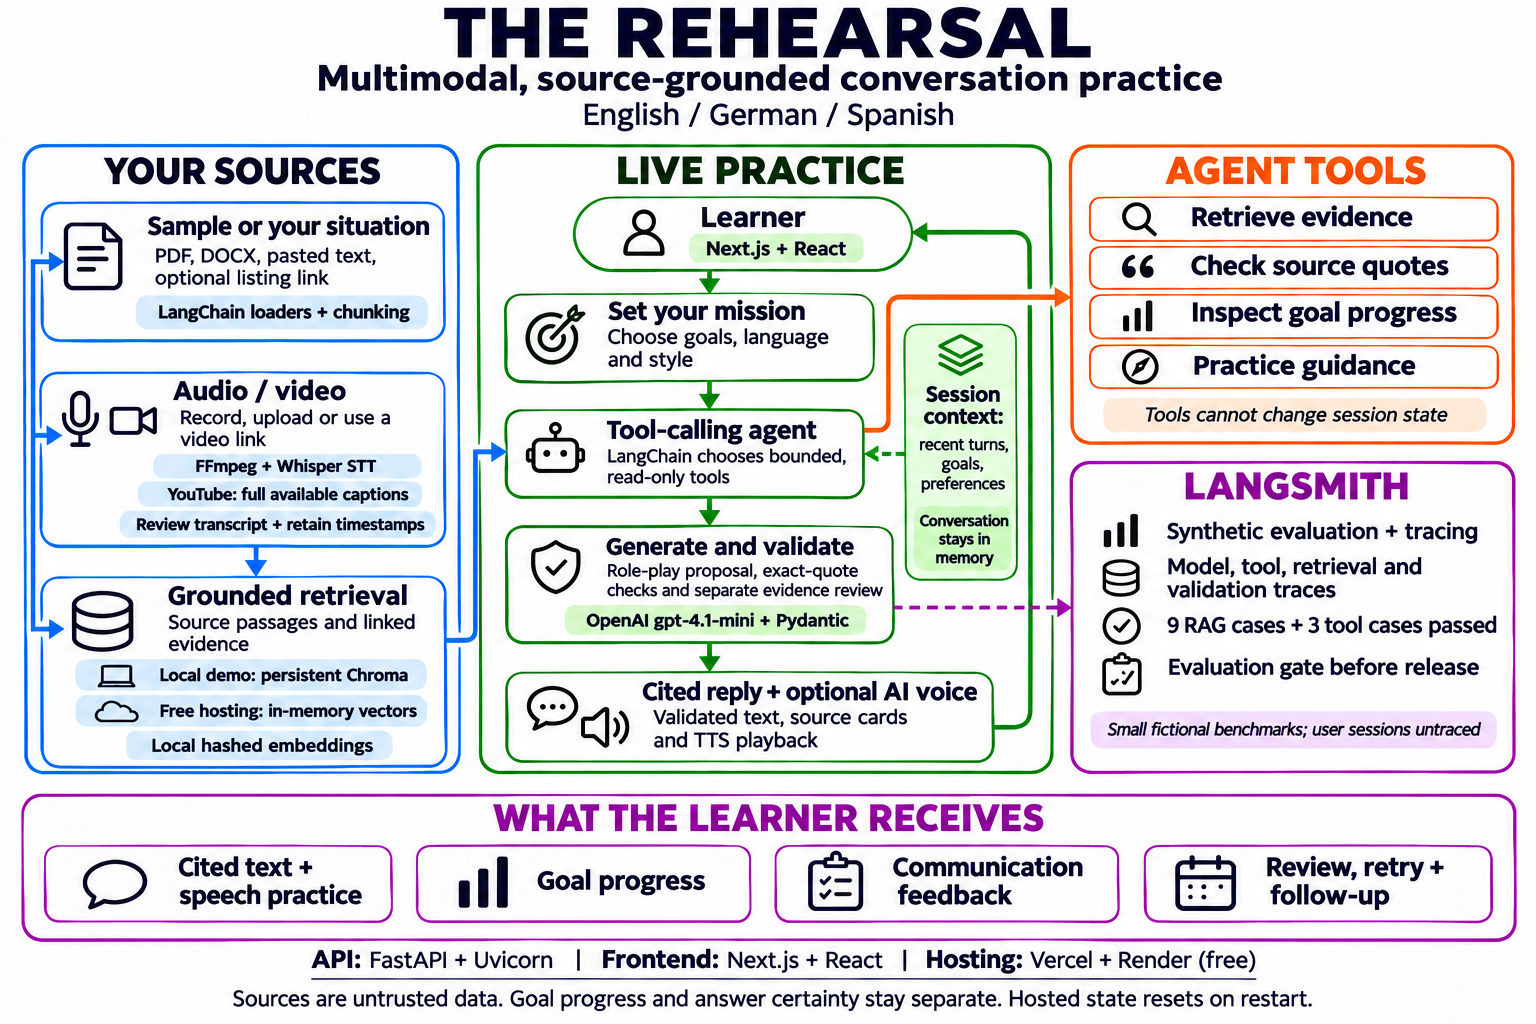
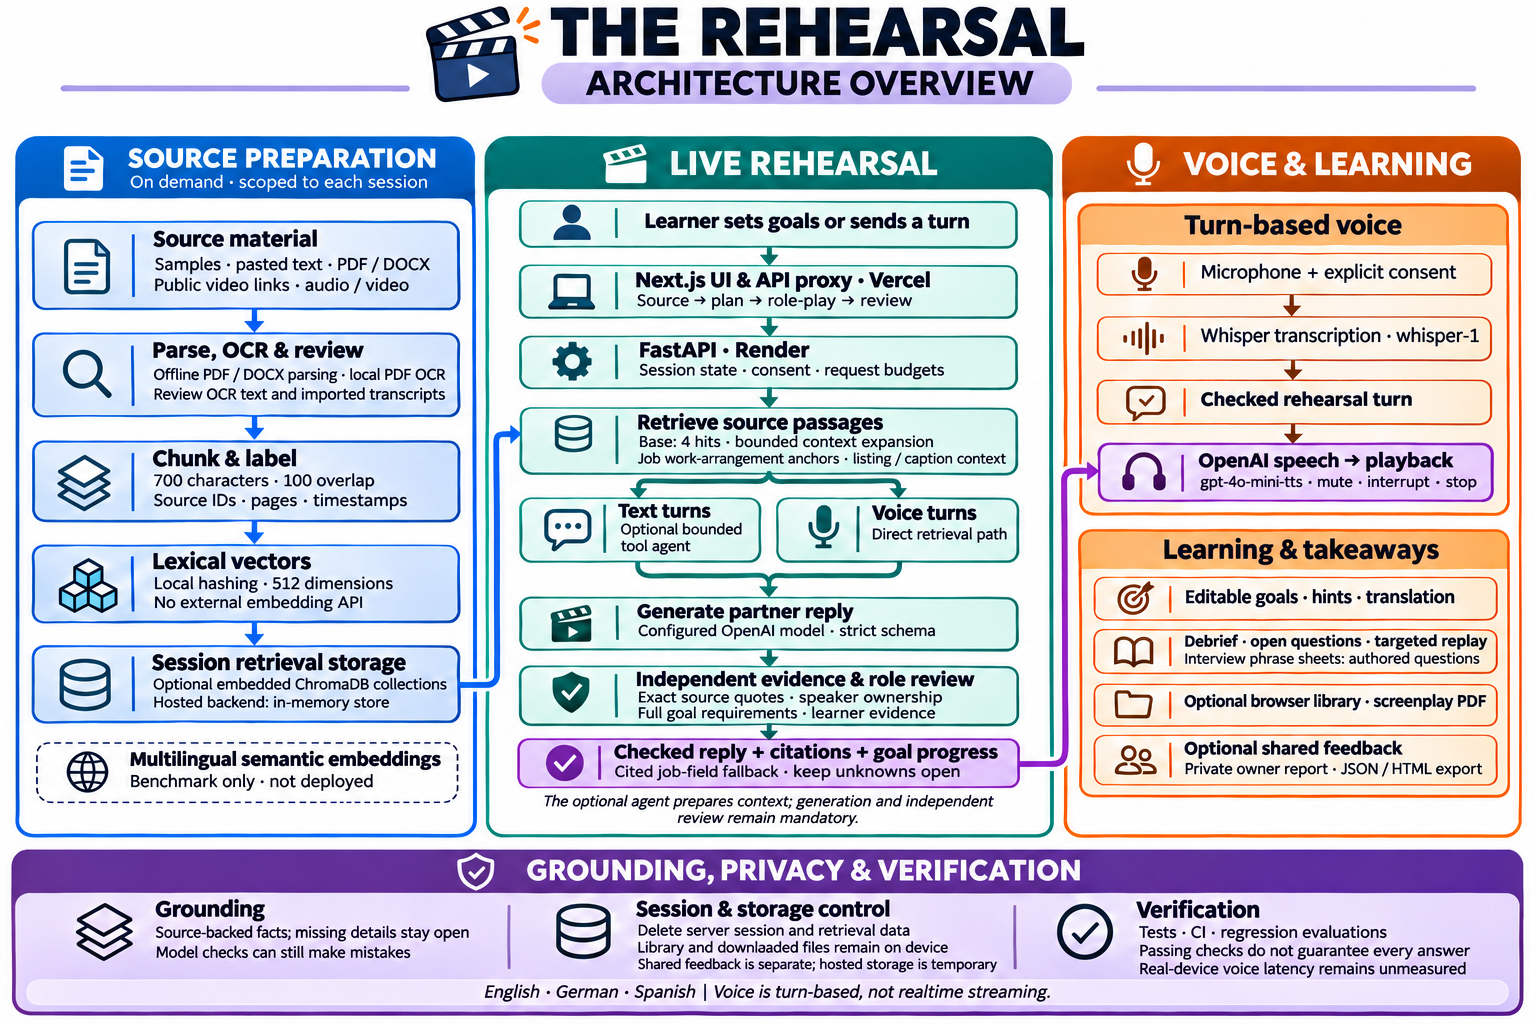
Update architecture infographic and implementation overview

diff --git a/CAPSTONE.md b/CAPSTONE.md
@@ -12,7 +12,7 @@ Current deployment history: [DEPLOYMENT.md](DEPLOYMENT.md).
 Historical submission evidence: [submission verification](docs/archive/submission-2026-11-04.md). Public release evidence
 is published with [version 0.7.0](https://github.com/zinaelnahel/the-rehearsal/releases/tag/v0.7.0).
 
-![Updated architecture infographic](docs/architecture-infographic.png)
+![Architecture overview](docs/architecture-infographic.png)
 
 | Criterion | Implemented evidence | Limits of the claim |
 | --- | --- | --- |
@@ -30,30 +30,42 @@ is published with [version 0.7.0](https://github.com/zinaelnahel/the-rehearsal/r
 ```mermaid
 flowchart LR
     U[Browser / Next.js] --> P[Server-side API proxy]
-    D[PDF / DOCX / pasted text] --> C[Chunking and source metadata]
-    M[Microphone, upload or direct video URL] --> W[Bounded decoding / Whisper STT]
-    Y[YouTube URL / available captions] --> T
+    P --> F[FastAPI / session state / consent / request budgets]
+    F --> I[Source preparation: samples, text, PDF and DOCX]
+    I --> O[Offline parsing / PDF OCR / review when required]
+    F --> W[Microphone, upload or public direct video / Whisper STT]
+    F --> Y[YouTube / available captions]
     W --> T[Review and confirm transcript]
-    T --> C
-    T --> P
-    C --> V[Session-scoped Chroma collections]
-    P --> A[FastAPI / LangChain tool-calling agent]
-    A --> R[Retrieve / quote check / goal inspection / guidance]
-    R --> V
-    A --> G[Structured role-play proposal]
+    Y --> T
+    T --> C[700-character chunks / 100 overlap / source metadata]
+    O --> C
+    C --> V[Session retrieval: hosted memory / optional embedded Chroma]
+    F --> R[Retrieve passages / job fields / listing and caption context]
+    V --> R
+    R --> A[Text: optional bounded read-only LangChain agent]
+    R -->|Voice: direct context| G[Structured role-play proposal]
+    A --> G
     G --> Q[Mandatory exact-quote and semantic evidence checks]
-    Q --> F[Validated reply or explicit unknown]
-    F --> U
-    F --> S[Optional AI TTS playback]
+    Q --> B[Checked reply / cited job-field fallback / explicit unknown]
+    B --> U
+    B --> S[Optional AI TTS playback]
     S --> U
-    E[Synthetic evaluation runner] --> A
-    A -. evaluation traces only .-> L[LangSmith experiments]
-    Q -. evaluation traces only .-> L
+    F --> D[Debrief / open questions / targeted replay]
+    D --> U
+    D --> H[Interview phrase sheets: enforced authored questions]
+    H --> U
+    U --> K[Optional browser library / screenplay PDF]
+    E[Synthetic evaluation runner] --> F
+    F -. evaluation traces only .-> L[LangSmith experiments]
 ```
 
-This is the local implementation; speech must be enabled, and the existing free
-hosting configuration uses the memory retrieval fallback. Tool preparation may be
-explicitly disabled; it is enabled by default for live turns.
+The overview has no release-specific date or build stamp. Speech must be enabled
+for audio processing and AI playback. Hosted retrieval uses memory; embedded
+Chroma persistence is optional. Agent preparation is optional for live text
+turns; continuous voice uses direct retrieval while retaining mandatory checks.
+The bounded job-field fallback preserves exact source wording and citations
+without independently confirming mission answers. Interview phrase sheets use
+authored questions enforced by the output schema and server-side binding.
 
 
 Live mode uses the configured pretrained model, default `gpt-4.1-mini`, through
